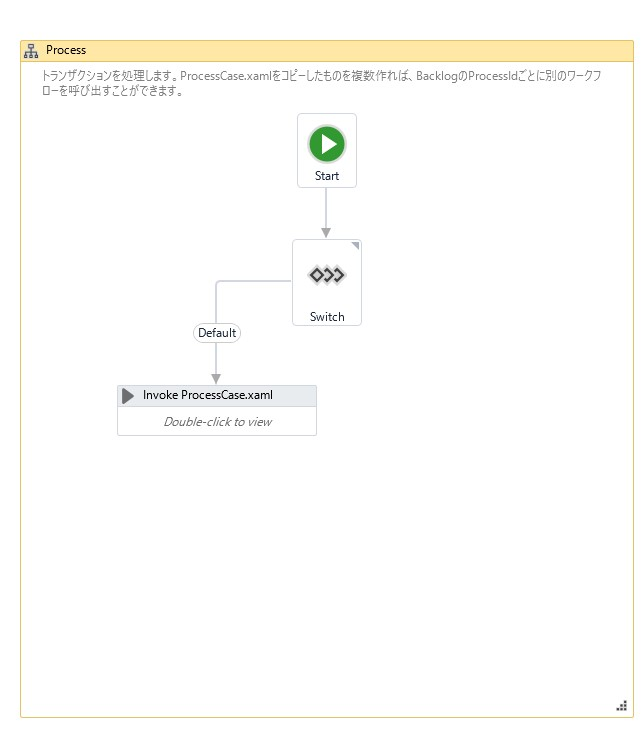
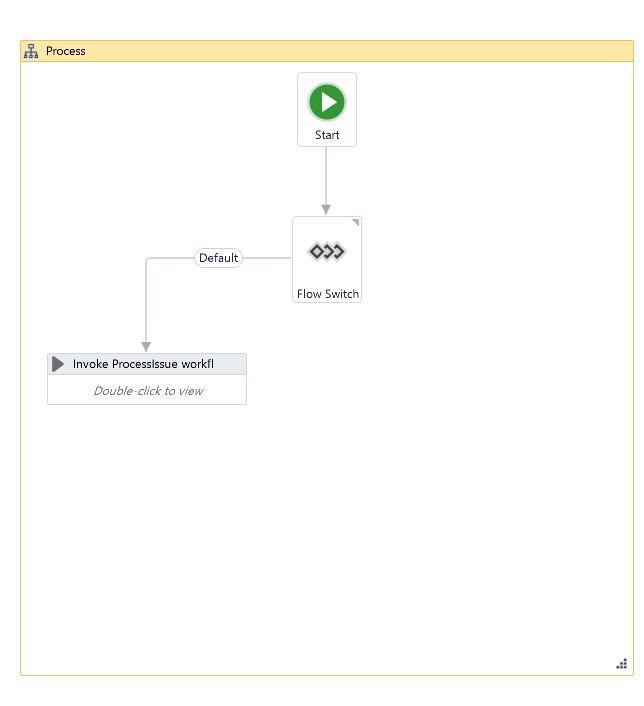
Update README

diff --git a/Process.xaml b/Process.xaml
@@ -73,22 +73,20 @@
     <Flowchart.StartNode>
       <FlowSwitch x:TypeArguments="x:String" x:Name="__ReferenceID0" DisplayName="Flow Switch" Expression="[in_TransactionItem(&quot;ProjectId&quot;).ToString]" sap2010:WorkflowViewState.IdRef="FlowSwitch`1_1">
         <FlowSwitch.Default>
-          <FlowStep x:Name="__ReferenceID1">
-            <ui:InvokeWorkflowFile ContinueOnError="{x:Null}" DisplayName="Invoke ProcessIssue workflow" UnSafe="False" WorkflowFileName="ProcessIssue.xaml">
+          <FlowStep x:Name="__ReferenceID1" sap2010:WorkflowViewState.IdRef="FlowStep_2">
+            <ui:InvokeWorkflowFile ContinueOnError="{x:Null}" DisplayName="Invoke ProcessIssue workflow" sap2010:WorkflowViewState.IdRef="InvokeWorkflowFile_2" UnSafe="False" WorkflowFileName="ProcessIssue.xaml">
               <ui:InvokeWorkflowFile.Arguments>
                 <InArgument x:TypeArguments="scg:Dictionary(x:String, x:Object)" x:Key="in_Config">[in_Config]</InArgument>
                 <InArgument x:TypeArguments="sd:DataRow" x:Key="in_TransactionItem">[in_TransactionItem]</InArgument>
               </ui:InvokeWorkflowFile.Arguments>
-              <sap2010:WorkflowViewState.IdRef>InvokeWorkflowFile_2</sap2010:WorkflowViewState.IdRef>
             </ui:InvokeWorkflowFile>
-            <sap2010:WorkflowViewState.IdRef>FlowStep_2</sap2010:WorkflowViewState.IdRef>
           </FlowStep>
         </FlowSwitch.Default>
       </FlowSwitch>
     </Flowchart.StartNode>
     <x:Reference>__ReferenceID0</x:Reference>
     <x:Reference>__ReferenceID1</x:Reference>
-    <sads:DebugSymbol.Symbol>d2JDOlxVc2Vyc1xZb3NoaWhpa28gTWl5YWljaGlcRG9jdW1lbnRzXFVpUGF0aFxSZUZyYW1ld29yay1UZW1wbGF0ZS1CYWNrbG9nLVRyYW5zYWN0aW9uXFByb2Nlc3MueGFtbAZIA1wPAgEBSmtKoQECAQhNDVMlAgECT2RPbwIBBlBVUGkCAQRNigFNnQECAQM=</sads:DebugSymbol.Symbol>
+    <sads:DebugSymbol.Symbol>d2JDOlxVc2Vyc1xZb3NoaWhpa28gTWl5YWljaGlcRG9jdW1lbnRzXFVpUGF0aFxSZUZyYW1ld29yay1UZW1wbGF0ZS1CYWNrbG9nLVRyYW5zYWN0aW9uXFByb2Nlc3MueGFtbAZIA1oPAgEBSmtKoQECAQhNDVIlAgECT2RPbwIBBlBVUGkCAQRNwQFN1AECAQM=</sads:DebugSymbol.Symbol>
   </Flowchart>
   <sap2010:WorkflowViewState.ViewStateManager>
     <sap2010:ViewStateManager>
